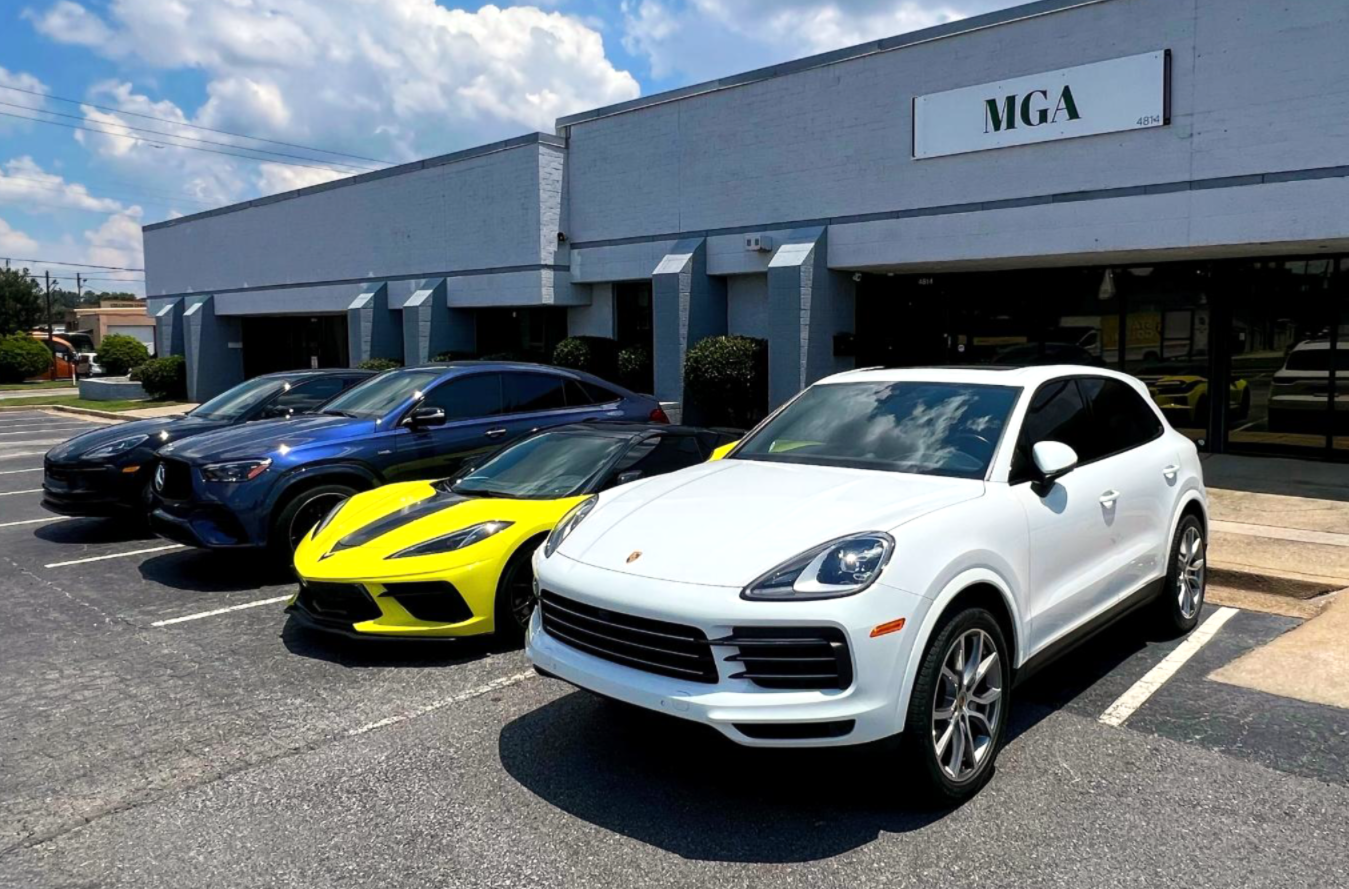
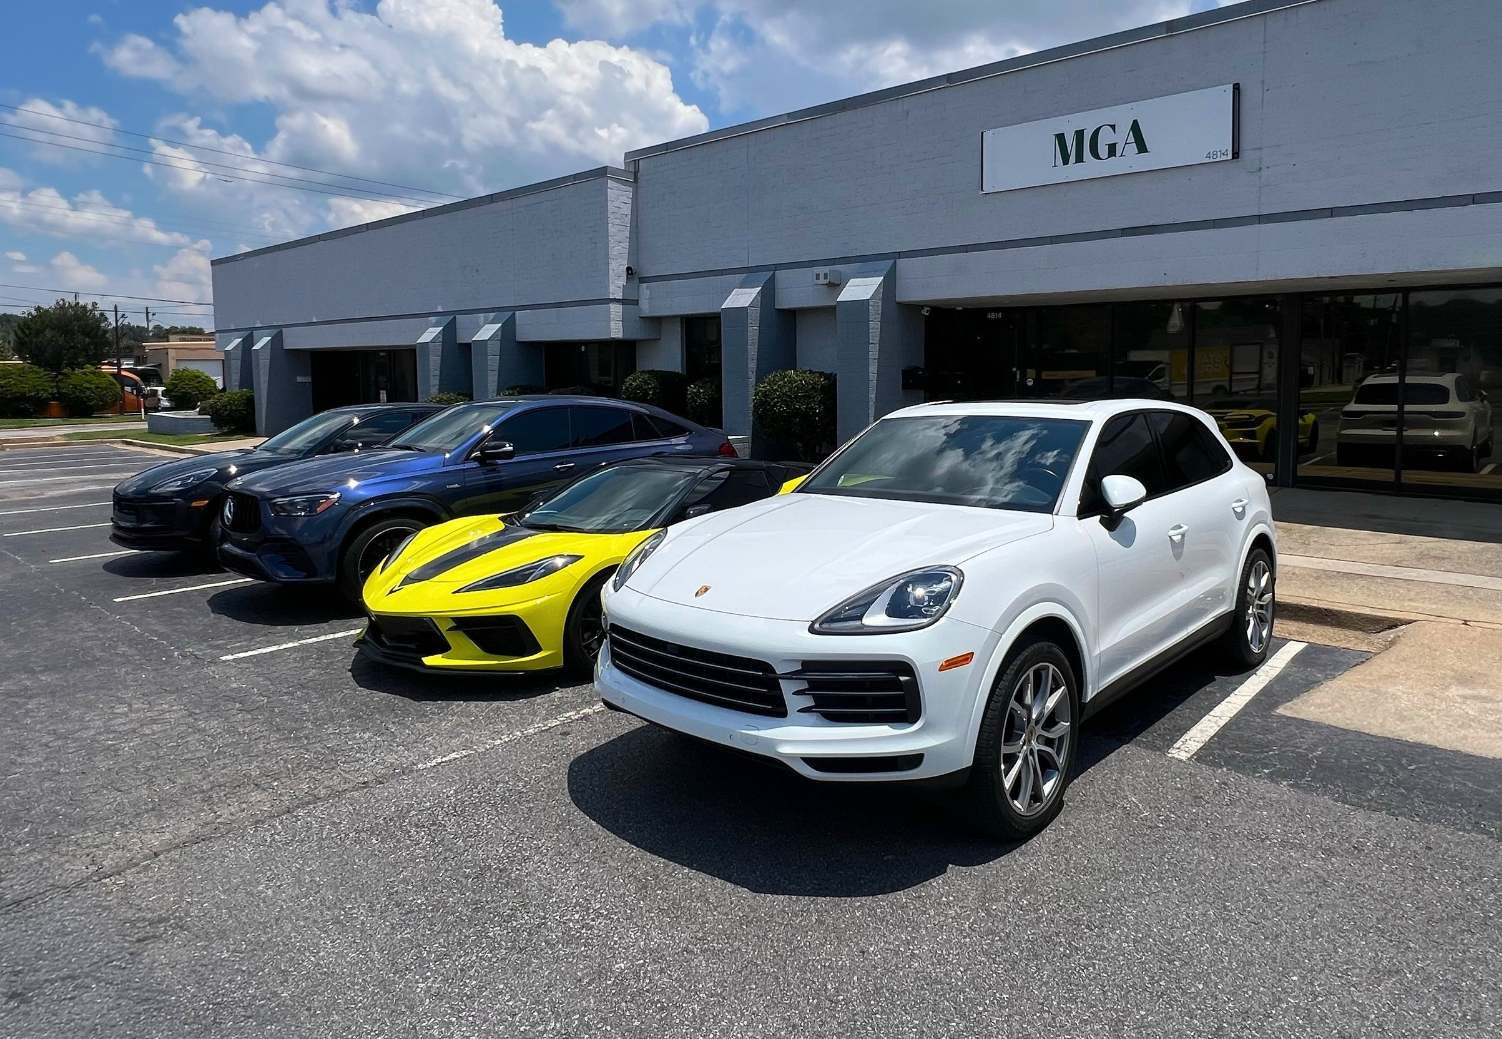
Fix optional documents and update design for service request form

diff --git a/src/components/ServiceRequestForm.tsx b/src/components/ServiceRequestForm.tsx
@@ -114,26 +114,6 @@ export default function ServiceRequestForm({ initialServiceId }: ServiceRequestF
       }
     }
 
-    if (!licenseFilePreview) {
-      Swal.fire({
-        icon: 'error',
-        title: 'Missing License',
-        text: 'Please upload a valid driver\'s license.',
-        confirmButtonColor: "hsl(var(--primary))",
-      });
-      return false;
-    }
-
-    if (!insuranceFilePreview) {
-      Swal.fire({
-        icon: 'error',
-        title: 'Missing Insurance',
-        text: 'Please upload valid insurance documentation.',
-        confirmButtonColor: "hsl(var(--primary))",
-      });
-      return false;
-    }
-
     setErrors(newErrors);
     return Object.keys(newErrors).length === 0;
   };
@@ -458,23 +438,17 @@ export default function ServiceRequestForm({ initialServiceId }: ServiceRequestF
                 </div>
 
                 <div className="space-y-2">
-                  <Label htmlFor="svc-license">License</Label>
+                  <Label htmlFor="svc-license">Driver's License (Optional)</Label>
                   <div className="flex items-center gap-3">
                     <Button
                       type="button"
                       variant="outline"
-                      size="sm"
                       onClick={() => licenseInputRef.current?.click()}
                       disabled={isLoading}
-                      className="bg-white text-gray-900 hover:bg-gray-100 border-gray-300"
+                      className="bg-white text-gray-900 border-gray-300 w-full font-normal justify-start px-3"
                     >
                       Choose File
                     </Button>
-                    <span className="text-sm text-gray-700 flex-1 truncate">
-                      {licenseFilePreview
-                        ? licenseFilePreview.file.name
-                        : "No file selected"}
-                    </span>
                     <Input
                       id="svc-license"
                       ref={licenseInputRef}
@@ -488,26 +462,21 @@ export default function ServiceRequestForm({ initialServiceId }: ServiceRequestF
                       }}
                     />
                   </div>
+                  {licenseFilePreview && <span className="text-xs text-gray-500 truncate mt-1 block">{licenseFilePreview.file.name}</span>}
                 </div>
 
                 <div className="space-y-2">
-                  <Label htmlFor="svc-insurance">Insurance</Label>
+                  <Label htmlFor="svc-insurance">Insurance Card (Optional)</Label>
                   <div className="flex items-center gap-3">
                     <Button
                       type="button"
                       variant="outline"
-                      size="sm"
                       onClick={() => insuranceInputRef.current?.click()}
                       disabled={isLoading}
-                      className="bg-white text-gray-900 hover:bg-gray-100 border-gray-300"
+                      className="bg-white text-gray-900 border-gray-300 w-full font-normal justify-start px-3"
                     >
                       Choose File
                     </Button>
-                    <span className="text-sm text-gray-700 flex-1 truncate">
-                      {insuranceFilePreview
-                        ? insuranceFilePreview.file.name
-                        : "No file selected"}
-                    </span>
                     <Input
                       ref={insuranceInputRef}
                       id="svc-insurance"
@@ -521,10 +490,14 @@ export default function ServiceRequestForm({ initialServiceId }: ServiceRequestF
                       }}
                     />
                   </div>
+                  {insuranceFilePreview && <span className="text-xs text-gray-500 truncate mt-1 block">{insuranceFilePreview.file.name}</span>}
                 </div>
               </div>
 
               <div className="space-y-2">
+                <p className="text-xs text-black bg-gray-100 p-2 rounded border border-gray-300 mb-2">
+                  Optional document uploads may help expedite your booking. All submitted documents are handled securely and used solely to verify your rental eligibility.
+                </p>
                 <Label htmlFor="svc-notes">Message</Label>
                 <Textarea
                   id="svc-notes"
